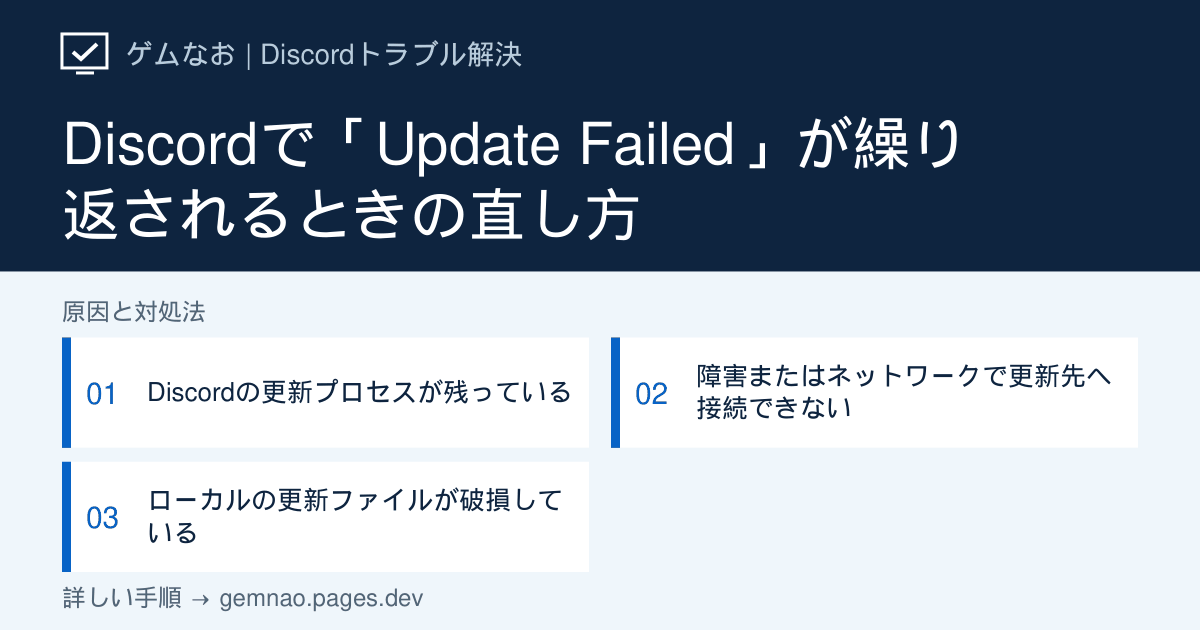
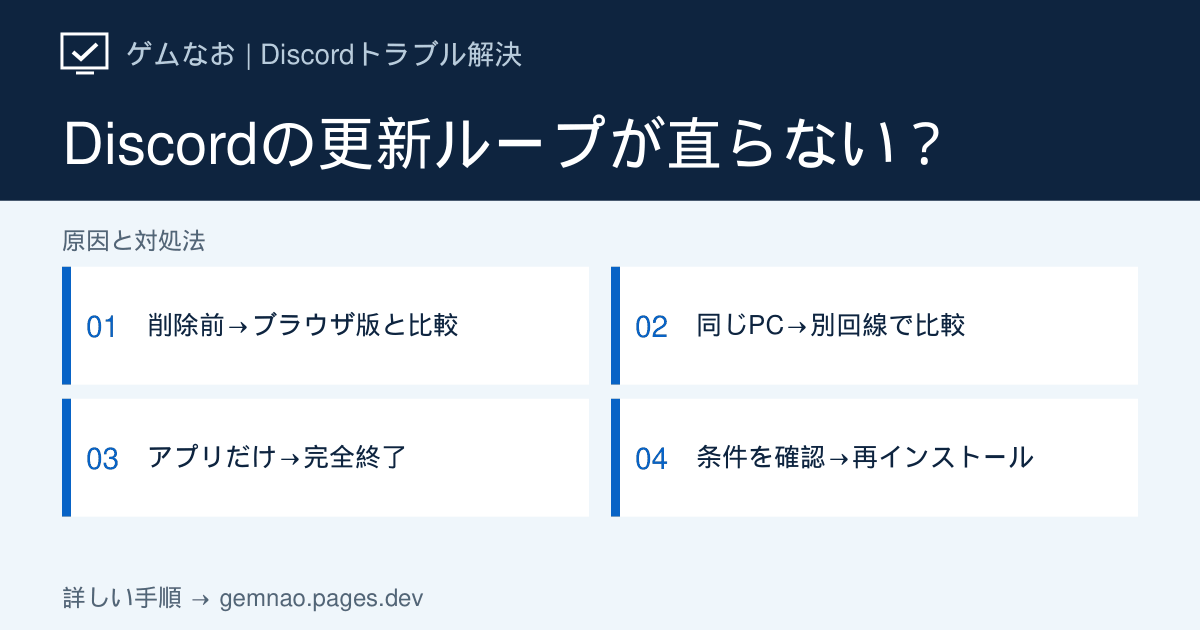
Rewrite Discord update loop guide with pre-deletion connection checks

diff --git a/lib/discord-p0-articles.ts b/lib/discord-p0-articles.ts
@@ -29,83 +29,93 @@ const overlayGuide = official('217659737', 'ゲームオーバーレイ101');
 
 export const discordP0Articles: DiscordArticle[] = [
   {
-    slug: 'update-failed',
-    category: 'launch',
-    title: 'Discordで「Update Failed」が繰り返されるときの直し方',
+    slug: 'update-failed', category: 'launch',
+    title: 'DiscordのUpdate Failed・更新ループの直し方｜削除前に通信とアプリを確認',
     shortTitle: 'Update Failed・更新ループ',
-    seoTitle: 'Discord「Update Failed」の直し方｜更新ループから進まない場合',
-    metaDescription:
-      'DiscordのUpdate Failedが繰り返され、更新ループから進まないときのWindows向け対処法。完全終了、障害確認、残存フォルダー削除と再インストールを順に説明します。',
-    symptom:
-      'Discordを開くと「Update Failed」と表示され、再試行を繰り返してアプリが起動しない、または更新が完了しない場合の手順です。',
-    target: 'Windows 11 / Windows 10版 Discordデスクトップアプリ',
-    conclusion:
-      'まずDiscordをタスクトレイとタスクマネージャーから完全終了し、公式ステータスを確認してください。直らなければ、残っているDiscordフォルダーを削除して公式インストーラーから入れ直します。',
-    quickFixes: [
-      'タスクトレイとタスクマネージャーからDiscordを完全終了して起動し直す',
-      'Discord Statusとインターネット接続を確認する',
-      'Discordの残存フォルダーを削除し、公式サイトから再インストールする',
+    seoTitle: 'DiscordのUpdate Failedが直らない｜更新ループの原因と対処法',
+    metaDescription: 'Discordの更新ループは、削除前にブラウザ版・別回線・公式ダウンロードを比較。結果別の確認先、DiscordとUpdate.exeの完全終了、再インストールへ進む条件と削除対象を具体的に解説します。',
+    symptom: '起動時にUpdate Failedが繰り返され、更新画面から進まない場合の手順です。更新後にログイン画面へ進むなら更新処理は通過しており、ログインできない問題は別に確認します。',
+    target: 'Windows 11／Windows 10のDiscordデスクトップアプリ（通常版）',
+    conclusion: 'まず公式障害情報と、同じPC・同じ回線でブラウザ版が使えるかを確認します。別回線で更新できるなら通信側、回線を変えてもアプリだけ失敗するならPC側の確認を優先。完全終了後も失敗し、公式インストーラーを取得できることと再ログイン手段を確認できた場合に、残存フォルダーの整理と再インストールへ進みます。',
+    quickFixes: ['同じPC・回線でブラウザ版と公式ダウンロードを確認する', '必要なら同じPCを別回線につなぎ、更新結果を比較する', 'アプリ側の確認が必要なら完全終了し、改善しない場合だけ再インストールへ進む'],
+    showStatusCheck: false,
+    diagnosisTitle: '削除する前に確認：ブラウザ版・回線・更新結果の判断表',
+    diagnosisIntro: '「ブラウザ版が使える＝更新通信も正常」とは限りません。以下は原因を断定する表ではなく、次に調べる範囲を絞るための表です。比較中はフォルダーやDNS設定を変更しないでください。',
+    diagnosis: [
+      { symptom: '公式障害情報に、発生時刻・症状と合う障害がある', check: 'ローカル削除を止め、復旧案内後に更新を再試行', causeIndex: 1 },
+      { symptom: 'ブラウザ版は使えるが、アプリ更新だけ失敗', check: '公式インストーラーの取得と別回線での更新を比較', causeIndex: 2 },
+      { symptom: 'ブラウザ版も読み込めない／公式ダウンロードも失敗', check: '回線・VPN・ブロック通知を先に確認', causeIndex: 2 },
+      { symptom: '同じPCが別回線では更新できる', check: '元の回線側を調べる。フォルダー削除は不要', causeIndex: 2 },
+      { symptom: '回線を変えてもアプリだけ失敗する', check: 'Discord関連プロセスを完全終了して比較', causeIndex: 3 },
+      { symptom: '完全終了後も失敗／公式インストーラーは取得できる', check: 'ログイン手段を確認し、残存データの整理へ', causeIndex: 4 },
     ],
     causes: [
       {
-        title: 'Discordの更新プロセスが残っている',
-        description:
-          'DiscordやUpdate.exeがバックグラウンドに残っていると、更新ファイルを置き換えられずループすることがあります。',
+        title: '障害情報とブラウザ版を、ファイル削除より先に確認する',
+        description: '更新画面の表示・発生時刻を記録してから比較します。ブラウザ版は、更新できるまでの一時的な利用先にもなります。',
         actions: [
-          '通知領域のDiscordアイコンを右クリックし「Discordを終了」を選ぶ',
-          'Ctrl＋Shift＋Escでタスクマネージャーを開く',
-          'Discordを終了する。Update.exeは右クリック→ファイルの場所を開くでDiscordフォルダー内と確認できたものだけを終了する',
-          'Discordをもう一度起動し、更新が進むか確認する',
+          'Discord Status（discordstatus.com）を開き、現在の障害と発生時刻を確認する。自分の症状に関係する障害が出ていれば、復旧後に再試行する。障害表示がなくても個別の通信問題は残る。',
+          '同じPC・同じ回線のブラウザで https://discord.com/app を開く。サイトのトップが表示されるだけでなく、ログイン後にチャンネルや既存メッセージを読み込めるか確認する。',
+          'ブラウザ版が使えるなら、その結果を記録してSTEP 2へ。アプリの破損と即断しない。ブラウザと更新処理では通信先や動作が異なるため、更新だけ遮断される可能性も残る。',
+          'メール・パスワード・認証コードのエラーなら通信失敗と分ける。関連記事「ログインできない」で確認し、既にログインしている端末はログアウトしない。',
         ],
       },
       {
-        title: '障害またはネットワークで更新先へ接続できない',
-        description:
-          'Discord側の障害や一時的な通信不良では、PC内のファイルを変更しても改善しません。',
+        title: '同じPCで回線を変え、ダウンロードと更新を比較する',
+        description: '端末と回線を同時に変えると、何が効いたのか分かりません。可能なら同じPCで、元の回線と別回線を比較します。',
         actions: [
-          'Discord Statusで障害やメンテナンスが出ていないか確認する',
-          'ブラウザでほかのサイトが開けるか確認する',
-          'VPNまたはプロキシを使用中なら一度切り、Discordを再起動する',
+          'https://discord.com/download からWindows用インストーラーを保存できるか確認する。ページが開くかだけでなく、ダウンロードが完了するかを見る。この段階では実行・削除をしなくてよい。',
+          '自分で設定したVPNを使っている場合は、一時的に切って再試行する。会社・学校の管理設定は変更せず、利用制限がある場合は管理者へ相談する。',
+          '可能なら同じPCをスマートフォンのテザリングなど別回線につなぎ、Discordの更新を再試行する。通信量に注意し、結果を確認したら元の回線へ戻す。別回線がなければ「未確認」と記録する。',
+          '別回線では更新できるなら、再インストールを止めて元の回線・VPN・接続制限を確認する。ブラウザ版は使えても更新だけ失敗する場合は、更新用通信の問題も候補に残る。',
+          'どちらの回線でもアプリだけ失敗するならSTEP 3へ。公式ダウンロードも失敗する場合は、ブラウザのエラーやセキュリティ製品のブロック通知を確認する。通信が確保できる前にアプリを削除しない。',
         ],
-        note: '障害が発表されている場合は、再インストールせず復旧を待ってください。',
+        note: 'セキュリティ機能の一括無効化やDNS・ネットワーク初期化を最初の対処にしません。ブロック記録があれば、対象ファイルと理由を確認します。',
       },
       {
-        title: 'ローカルの更新ファイルが破損している',
-        description:
-          '完全終了しても更新できない場合は、公式のWindowsインストーラーエラー手順で残存データを整理します。',
+        title: 'Discordと更新プロセスを完全終了して起動し直す',
+        description: 'ウィンドウを閉じただけでは、Discordが通知領域に残る場合があります。終了する対象を確認してから操作します。',
         actions: [
-          'ログイン用メール・パスワード・二要素認証を利用できることを確認し、ローカル設定を控える',
-          'Windows＋Rで%appdata%を開き、Discordフォルダーを削除する',
-          'Windows＋Rで%localappdata%を開き、Discordフォルダーを削除する',
-          'PCを再起動し、discord.com/downloadから最新版を再インストールする',
+          'タスクバー右下の通知領域でDiscordアイコンを右クリックし、終了を選ぶ。見えない場合は隠れているアイコンも確認する。',
+          'Ctrl＋Shift＋Escでタスクマネージャーを開き、残っているDiscordを終了する。Update.exeがある場合は右クリック→「ファイルの場所を開く」でDiscordフォルダー内か確認し、確認できたものだけ終了する。',
+          'スタートメニューからDiscordを1回起動する。同じUpdate Failedの繰り返しに戻るか、ログイン画面・通常画面へ進むかを確認する。進んだ場合は削除不要。',
+          '変わらなければ作業を保存してWindowsを再起動し、もう一度確認する。再起動後も失敗する場合は、STEP 4の条件を満たしてから再インストールする。',
         ],
-        note: 'フォルダーを削除できない場合は、Discordのプロセスが残っていないか再確認してください。',
+      },
+      {
+        title: '条件がそろった場合だけ、残存フォルダーを整理して入れ直す',
+        description: '関連障害の復旧待ちではなく、完全終了・再起動でも改善せず、公式インストーラーを取得できる場合の手順です。別回線を試せない場合は通信原因が残ることを記録し、再インストールで必ず直るとは考えないでください。',
+        actions: [
+          '登録メール、パスワード、二要素認証やバックアップコードを利用できることを確認する。必要な音声設定・キー割り当てを控え、開けない設定は再設定が必要になる可能性を把握する。',
+          'Discordを完全終了し、比較で開いたブラウザ版のタブも閉じる。ログイン済みのスマートフォンなど別端末はログアウトしなくてよい。',
+          'Windows＋Rに %appdata% を入力して開き、その中のDiscordフォルダーだけを削除する。次にWindows＋Rで %localappdata% を開き、同様にDiscordフォルダーだけを削除する。AppDataやLocal全体は削除しない。',
+          '対象がなければ、その場所の削除は省略する。「使用中」で削除できない場合はSTEP 3のプロセス確認へ戻る。アクセス拒否なら表示を記録し、所有権変更や強制削除を続けない。',
+          'Windowsを再起動し、公式サイトから取得したDiscordSetup.exeを実行する。ログイン後にチャンネルを開き、さらにDiscordを終了・再起動して更新ループが再発しないか確認する。',
+        ],
+        note: '公式の残存フォルダー削除はインストールエラー・破損時の対処です。アカウント削除とは別ですが、端末内の設定やログイン状態が作り直される可能性があります。通常版以外のフォルダーを推測で削除しないでください。',
+      },
+      {
+        title: '入れ直しても失敗する場合は、止まる画面と比較結果を残す',
+        description: '同じ削除を何度も繰り返すより、失敗する段階を分けて相談します。',
+        actions: [
+          'DiscordSetup.exeの実行時に「Installation has failed」と出るなら、関連記事のインストールエラー手順へ進む。更新ループと同じ症状として扱わない。',
+          '再びUpdate Failedになる場合は「発生日時／Windowsのバージョン／ブラウザ版の結果／公式ダウンロードの結果／別回線の結果／完全終了・再導入の結果」を控える。未実施の比較は未確認と書く。',
+          'エラー画面にログを開く操作がある場合は、表示内容を保存して公式サポートへ送る。公開掲示板へ貼る前にユーザー名・ファイルパスなどの個人情報を確認し、パスワードや認証コードは送らない。',
+        ],
       },
     ],
-    ifNotFixed:
-      'ブラウザ版が使えるか確認して、アカウントやサービス全体ではなくWindowsアプリ側の問題かを切り分けます。公式手順後もUpdate Failedが続く場合は、表示されたエラーと試した手順を添えてDiscordサポートへ連絡してください。',
+    ifNotFixed: '相談用の記録例：「自宅Wi-Fiでは更新失敗／同じPCのブラウザ版は利用可／公式ダウンロードは完了／別回線でも更新失敗／完全終了・再導入後も同じ」。これは記入例です。実際の結果に置き換えると、通信側とPC側のどちらを調べたかが伝わります。',
     faqs: [
-      {
-        question: 'Update Failedの画面で待ち続ければ直りますか？',
-        answer:
-          '一時的な障害や通信不良なら復旧後に進む場合があります。ただし同じ表示が繰り返される場合は、完全終了と公式ステータス確認から切り分けてください。',
-      },
-      {
-        question:
-          'AppDataのDiscordフォルダーを削除してもアカウントは消えませんか？',
-        answer:
-          'Discordアカウントやサーバー上のメッセージは削除されません。ただし端末内のキャッシュや一部のローカル設定は作り直されます。',
-      },
-      {
-        question: 'Update.exeの名前変更は必要ですか？',
-        answer:
-          'Discord公式のWindowsインストーラーエラー手順は、Discordの完全終了、AppDataとLocalAppDataのDiscordフォルダー削除、再起動、再インストールです。まずは公式手順を優先してください。',
-      },
+      { question: 'ブラウザ版が使えるなら通信は正常ですか？', answer: 'Discordの一部の機能へ接続できる手がかりですが、更新用の通信まで正常とは限りません。公式インストーラーを取得できるか、同じPCが別回線で更新できるかも比較します。' },
+      { question: '何分待てばよいですか？', answer: 'すべての環境に共通する待ち時間は決められません。表示が進むか、同じ失敗と再試行を繰り返すかを見てください。関連障害があれば復旧案内を待ち、繰り返す場合は削除より先に比較表で確認します。' },
+      { question: 'Update.exeの名前を変える必要はありますか？', answer: 'この記事の手順では変更しません。別アプリも同名の実行ファイルを使う可能性があるため、終了する時も保存場所を確認します。更新プログラムの名前変更で原因の確認を省略しないでください。' },
+      { question: 'フォルダーを消すとサーバーやメッセージも消えますか？', answer: 'PC内のDiscordフォルダー削除はアカウント削除やサーバー削除ではありません。ただし端末の設定やログイン状態が作り直される場合があるため、再ログイン手段を確保してから実施します。' },
     ],
-    sources: [installerGuide, damagedInstallGuide, status],
-    related: ['installation-failed', 'not-opening', 'loading-stuck'],
-    checkedAt: '2026-09-23',
-    status: 'verified',
+    sources: [installerGuide, damagedInstallGuide, status, { label: 'Discord公式：ダウンロード', url: 'https://discord.com/download' }, { label: 'Discord公式：サポートへの問い合わせ', url: 'https://support.discord.com/hc/en-us/requests/new' }],
+    related: ['installation-failed', 'loading-stuck', 'login-error'],
+    checkedAt: '2026-09-28', status: 'verified',
+    ogTitle: 'Discordの更新ループが直らない？',
+    ogSteps: ['削除前→ブラウザ版と比較', '同じPC→別回線で比較', 'アプリだけ→完全終了', '条件を確認→再インストール'],
   },
   {
     slug: 'installation-failed',

diff --git a/lib/og-image-manifest.ts b/lib/og-image-manifest.ts
@@ -30,7 +30,7 @@ export const ogImageManifest: Record<string, string> = {
   "/discord/slow-performance": "bd25d9b2",
   "/discord/stream-no-audio": "bfb2ee4d",
   "/discord/system-helper": "7455f630",
-  "/discord/update-failed": "45c152bc",
+  "/discord/update-failed": "713603d8",
   "/discord/user-volume-low": "31161b2c",
   "/discord/voice-client-outdated": "9940ed57",
   "/discord/voice-cutting-out": "e483fd4c",
